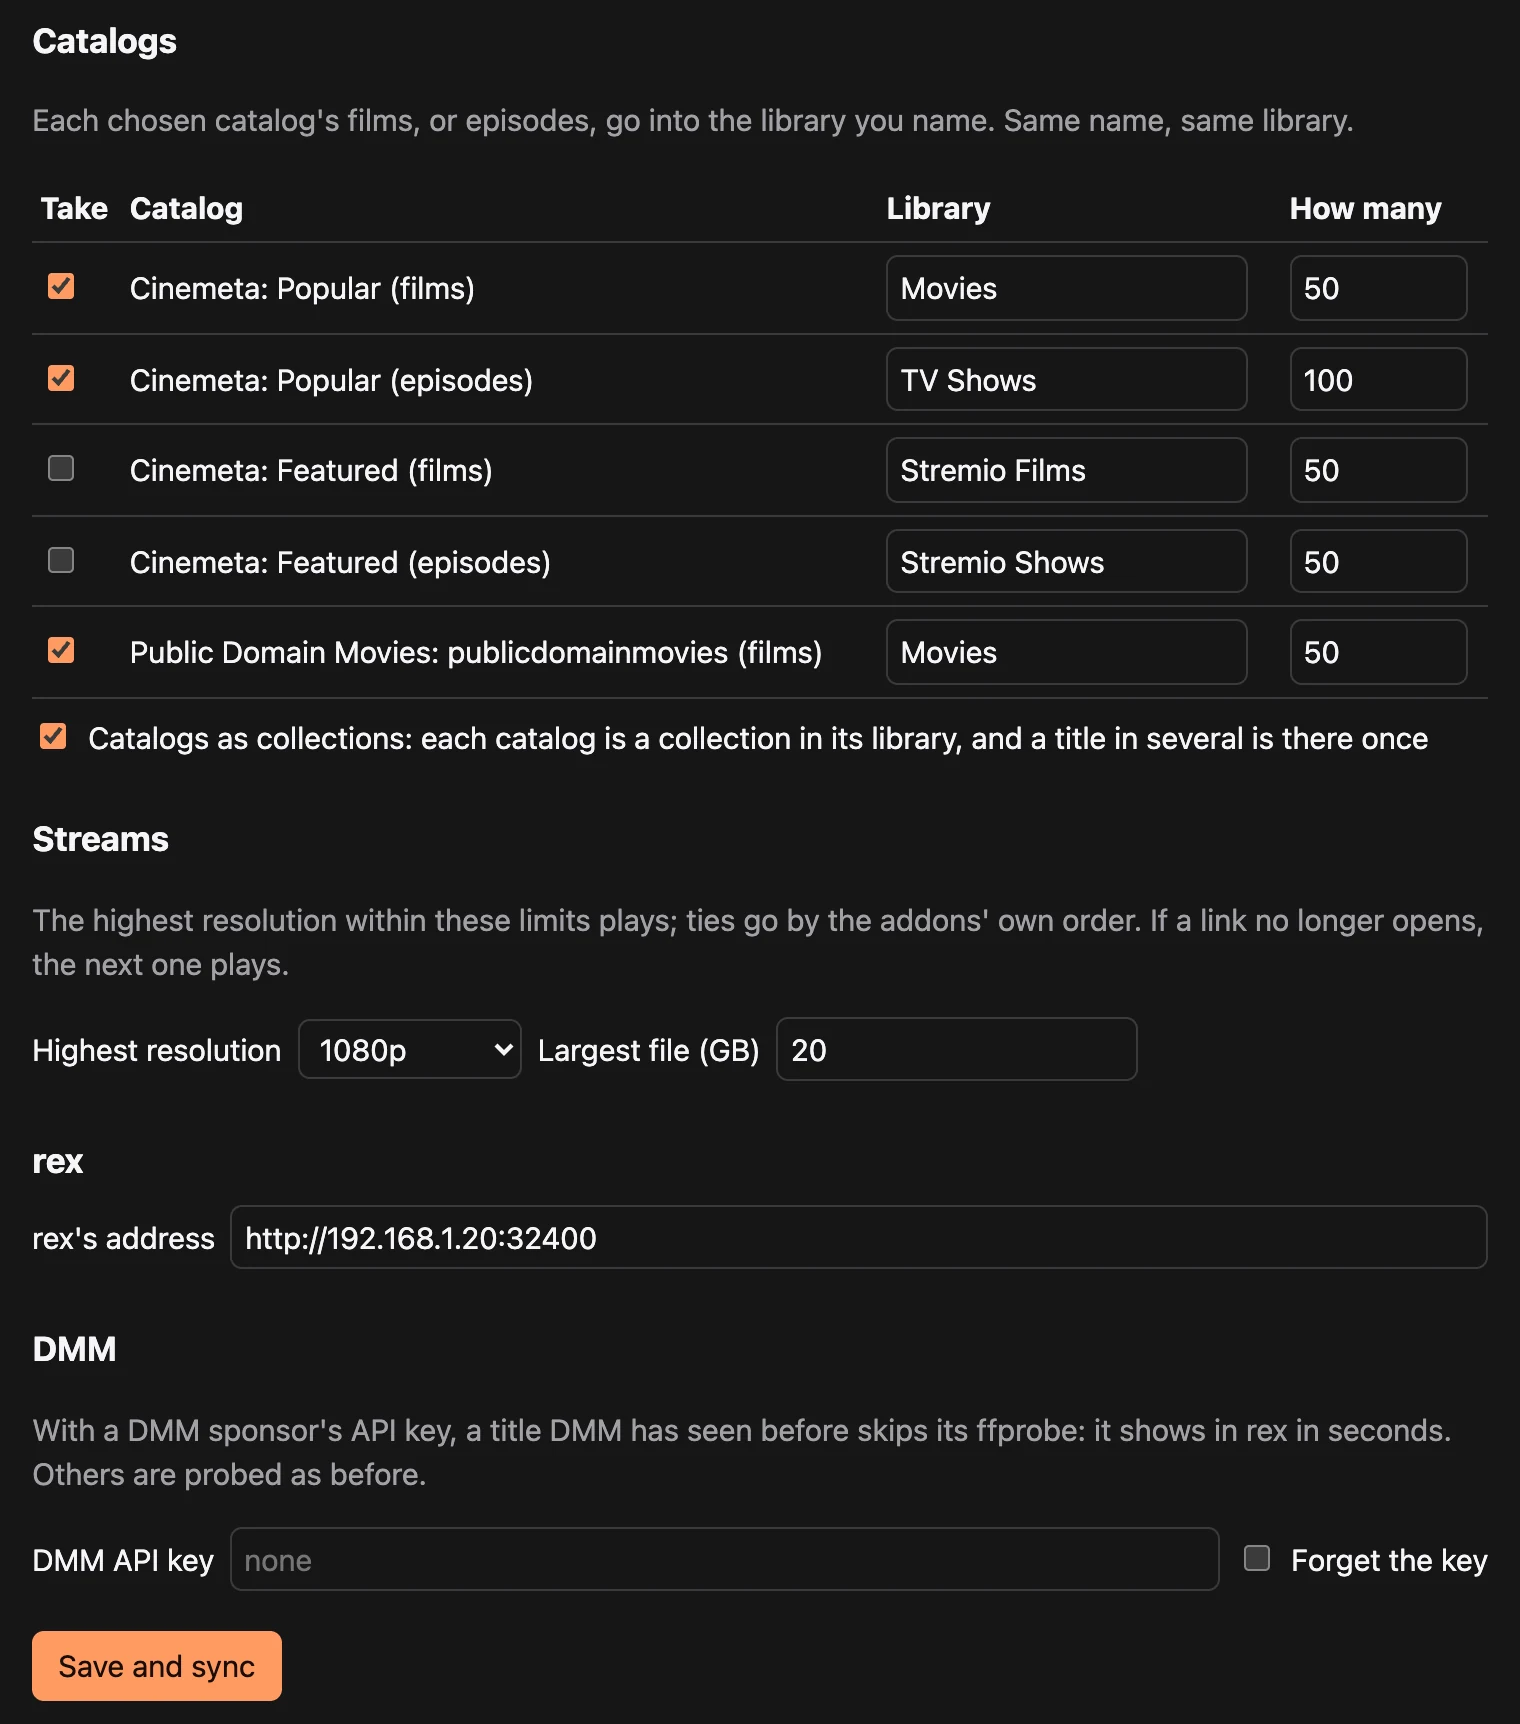
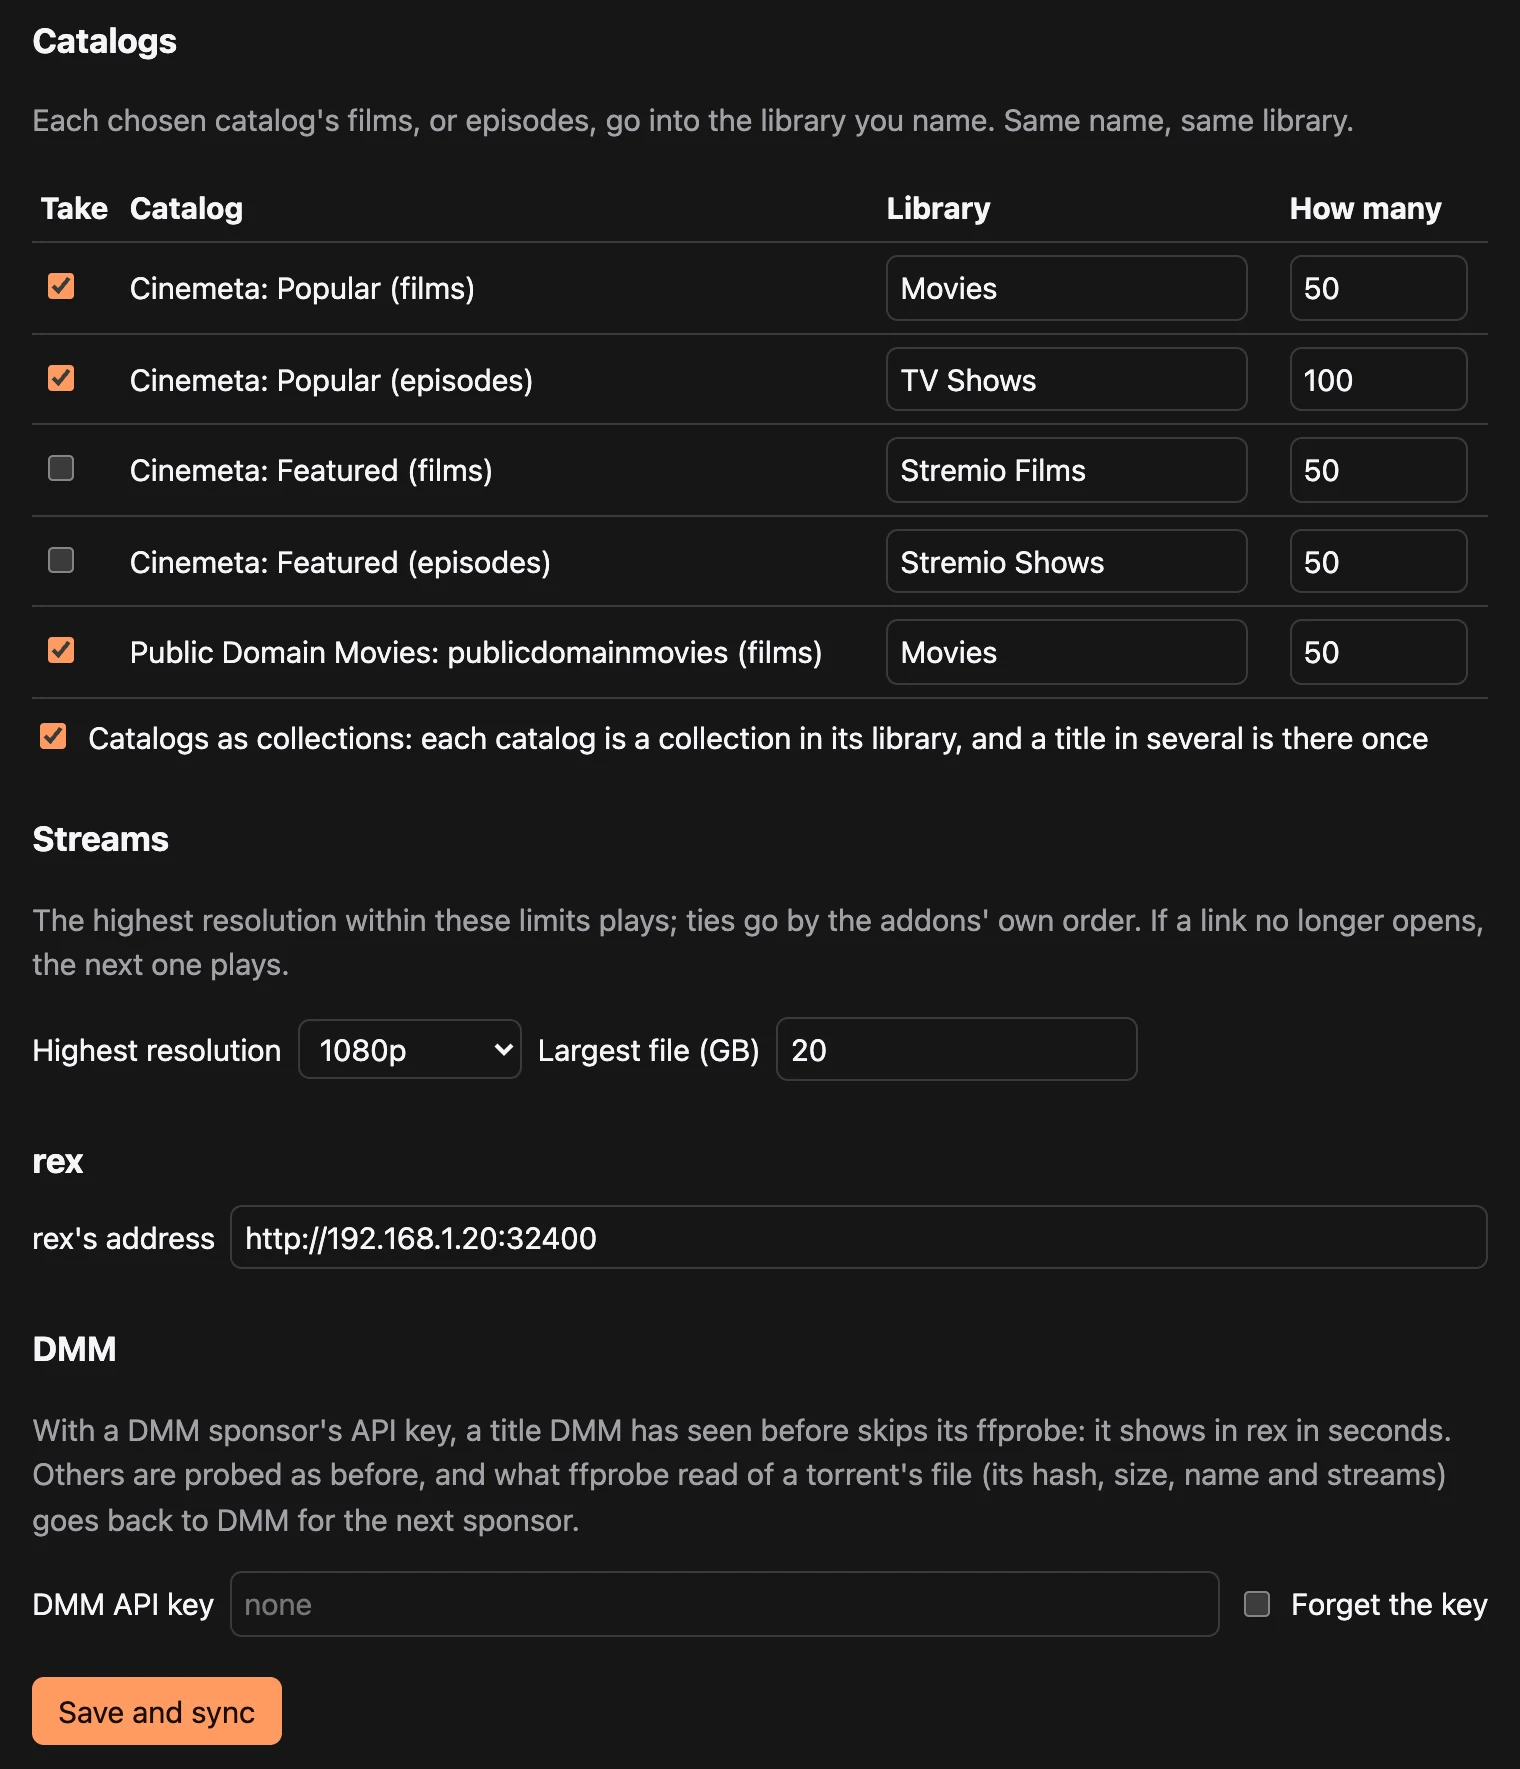
docs: rex-stremio sends the probes it takes back to DMM, and how to turn that off

diff --git a/rex/addons.md b/rex/addons.md
@@ -289,7 +289,7 @@ It asks each addon that serves the title (`/stream/<movie or series>/<id>.json`)
 
 **Probing.** Once per title, rex-stremio runs ffprobe on its own URL, so `media_info` describes exactly what rex will read, and caches the result. It checks `probe_workers` titles at once (4 unless set), and still asks each addon host at most once per `stream_interval_seconds`. The stream that probe came from is remembered and tried first at every play, so what plays is what rex was told about. The probe's container picks the path's extension: `.mkv`, `.mp4`, `.ts`, `.avi`, or `.m3u8` for HLS.
 
-**Stored probes.** With a DMM API key (`dmm_api_key`, or **DMM** on the settings page), a torrent stream skips ffprobe when DMM already holds a probe of its file. The torrent's hash comes from the stream's `infoHash` or from its link (Torrentio's debrid links carry it in the path). rex-stremio reads the file's size from the link's answer to a one-byte `Range`, and asks DMM's `POST /api/sponsor/mediainfo` for up to 100 hashes at a time. It takes DMM's probe only when exactly one file of that release has that size, and that name when the stream names its file. Anything else is probed as above.
+**Stored probes.** With a DMM API key (`dmm_api_key`, or **DMM** on the settings page), a torrent stream skips ffprobe when DMM already holds a probe of its file. The torrent's hash comes from the stream's `infoHash` or from its link (Torrentio's debrid links carry it in the path). rex-stremio reads the file's size from the link's answer to a one-byte `Range`, and asks DMM's `POST /api/sponsor/mediainfo` for up to 100 hashes at a time. It takes DMM's probe only when exactly one file of that release has that size, and that name when the stream names its file. Anything else is probed as above, and that probe goes back to DMM (`POST /api/sponsor/probes`: the torrent's hash, the file's size, its name when the stream names it, and ffprobe's output without the address it read), so the next sponsor to meet the file skips it. DMM keeps the first probe of a file and answers zurg's own snapshots first. `share_probes: false` keeps them to rex-stremio; DMM's are still used. A playlist's probe is never sent.
 
 **Naming.** Each film and episode goes to rex with `kind` and its IMDb id in `ids`, so Plex names it as in [rex with your own app](any-source.md). The catalog's own title, summary, date and poster go in `display`, which shows only until Plex names it. A live channel, or a title only its addon knows, has no IMDb id, so `display` alone names it.
 

diff --git a/rex/stremio.md b/rex/stremio.md
@@ -80,7 +80,7 @@ Open `http://127.0.0.1:9982/` in a browser on the rex machine. rex runs on a mac
 2. Under **Catalogs**, tick the catalogs you want. Name the library each goes into and set **How many** films, episodes or channels to take. For one library with a collection per catalog, give the catalogs the same library and tick **Catalogs as collections**.
 3. Under **Streams**, set the **Highest resolution** and **Largest file** you want played, or leave them at any.
 4. Under **rex**, set **rex's address** to `http://192.168.1.20:32400`.
-5. If you sponsor DMM, paste your DMM API key under **DMM** ([gatekeeper](https://gatekeeper.debridmediamanager.com/) shows it once you sponsor). A title DMM has seen before then skips its check. Press **Save and sync**.
+5. If you sponsor DMM, paste your DMM API key under **DMM** ([gatekeeper](https://gatekeeper.debridmediamanager.com/) shows it once you sponsor). A title DMM has seen before then skips its check, and what rex-stremio checks itself goes back to DMM for the next sponsor (`share_probes: false` in `config.json` stops that). Press **Save and sync**.
 
 ![rex-stremio's Catalogs, Streams, rex and DMM sections, with the Save and sync button](../assets/rex/91-stremio-catalogs-rex.webp)
 
